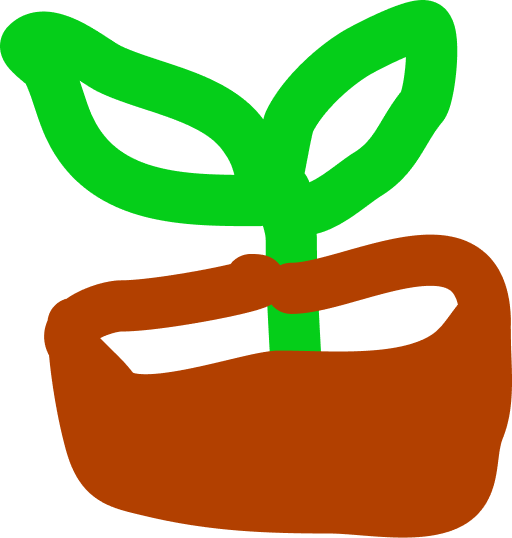
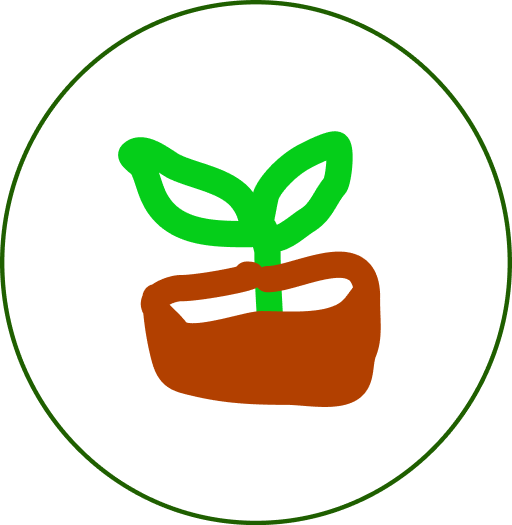
Feat: #19 미션 페이지 생성

diff --git a/src/routes/MissionPage.tsx b/src/routes/MissionPage.tsx
@@ -3,13 +3,14 @@ import { Container } from '../styles/Container';
 import MissionList from '../components/MissionList';
 import styled from 'styled-components';
 import plantImg from '../assets/plant.png';
+import COLOR from '../constants/colors';
 import FONT from '../constants/fonts';
 import Header from '../components/Header';
 
 const PlantImage = styled.img`
-  width: 20%;
-  height: 20%;
+  width: 30%;
   margin: 0 auto;
+  border-radius: 50%;
 `
 
 const MissionCard = styled.div`

diff --git a/src/components/MissionList.tsx b/src/components/MissionList.tsx
@@ -1,5 +1,5 @@
 import React, { useState } from 'react';
-import path from 'path';
+// import path from 'path';
 import styled from 'styled-components';
 import COLOR from '../constants/colors';
 import FONT from '../constants/fonts';
